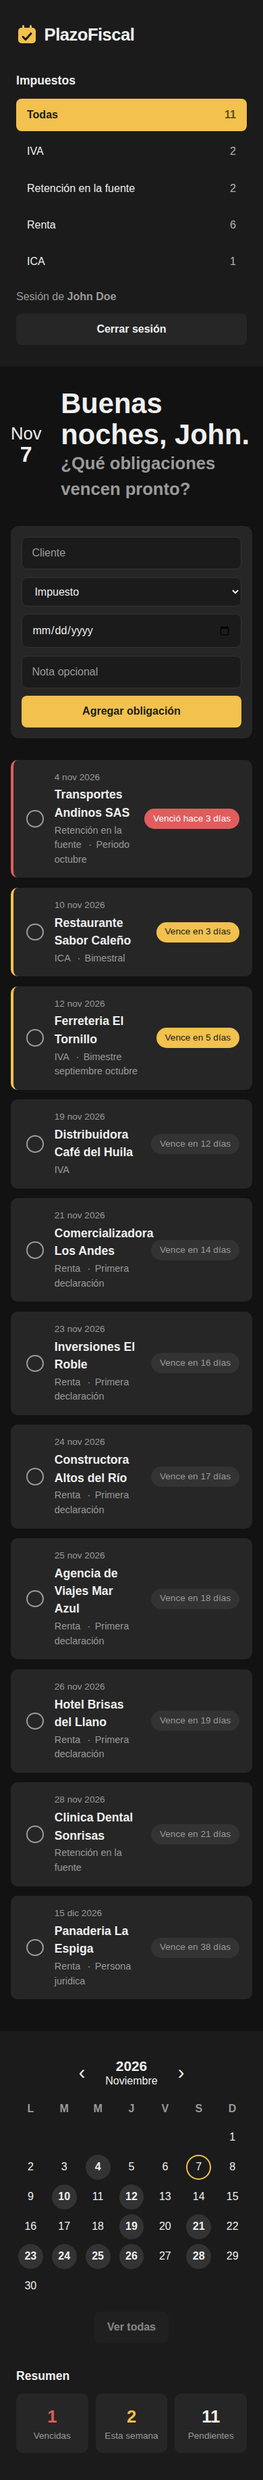
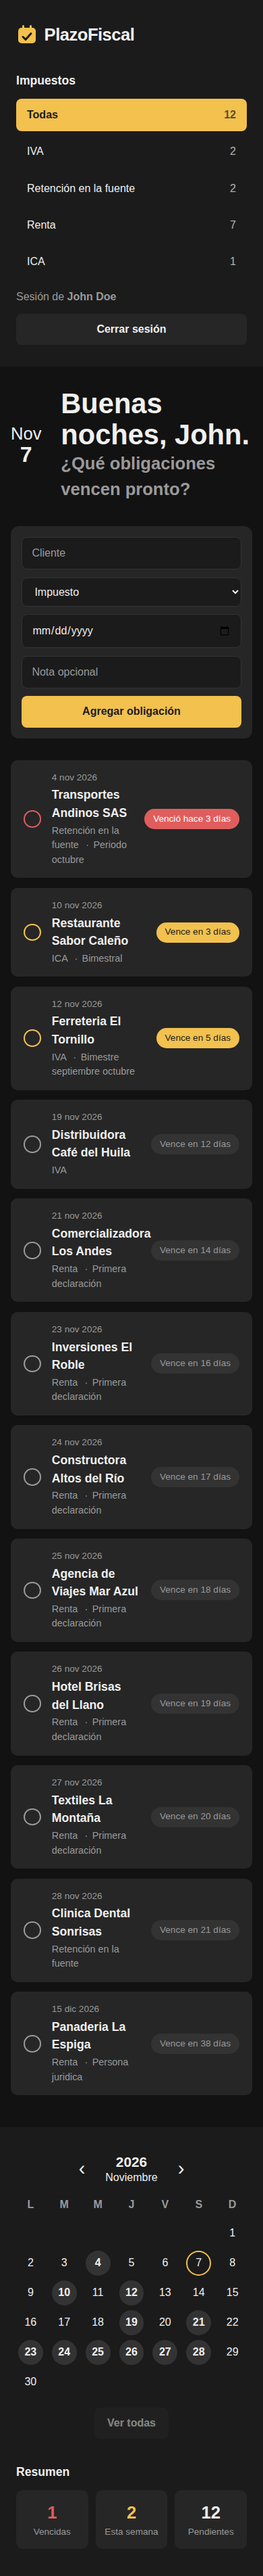
style: color the status circle instead of the card edge

diff --git a/app/frontend/src/components/ObligationCard.vue b/app/frontend/src/components/ObligationCard.vue
@@ -43,7 +43,6 @@ export default {
 .obligation {
   align-items: center;
   background: var(--pf-card);
-  border-left: 4px solid transparent;
   border-radius: 10px;
   display: flex;
   gap: 1rem;
@@ -56,14 +55,6 @@ export default {
   background: var(--pf-card-hover);
 }
 
-.obligation-overdue {
-  border-left-color: var(--pf-danger);
-}
-
-.obligation-soon {
-  border-left-color: var(--pf-accent);
-}
-
 .obligation-done {
   background: transparent;
   border: 2px solid var(--pf-muted);
@@ -72,6 +63,14 @@ export default {
   flex-shrink: 0;
   height: 1.6rem;
   width: 1.6rem;
+}
+
+.obligation-overdue .obligation-done {
+  border-color: var(--pf-danger);
+}
+
+.obligation-soon .obligation-done {
+  border-color: var(--pf-accent);
 }
 
 .obligation-done:hover {
